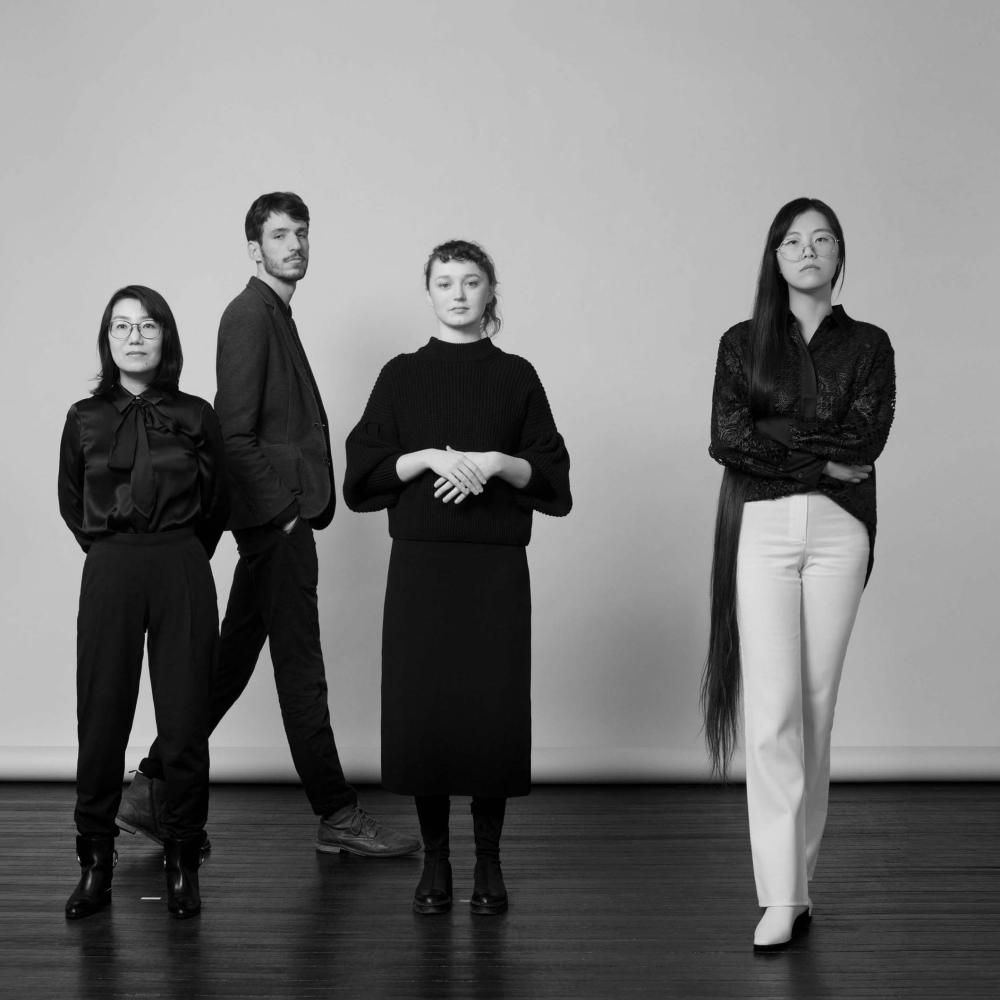
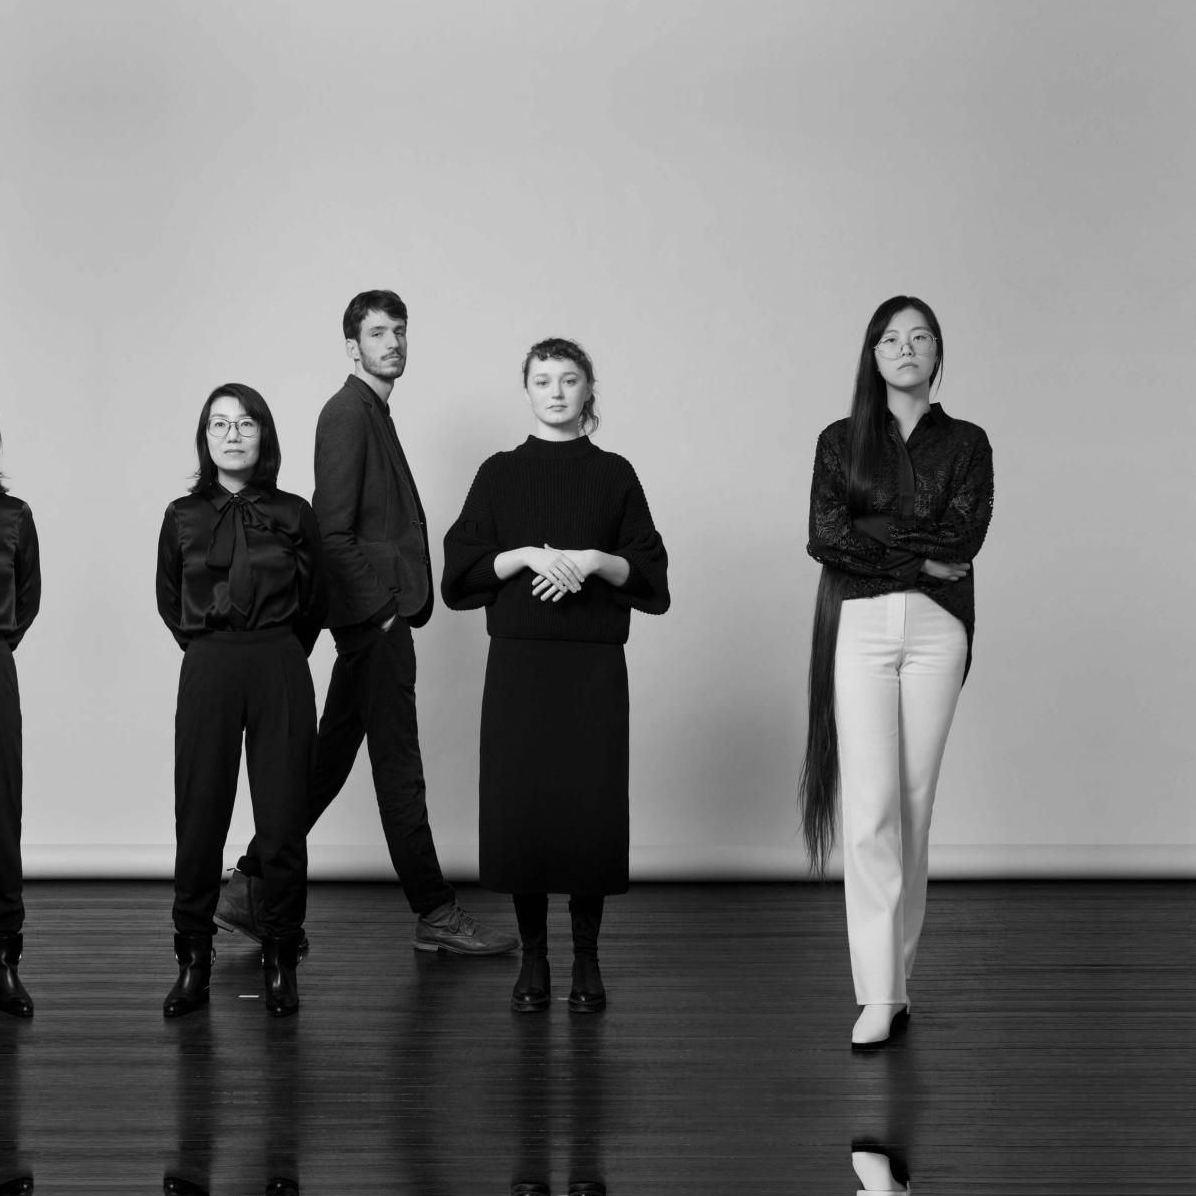
Fotky: padding proti průhledným okrajům při rozmazání, pozdější prolnutí

diff --git a/index.html b/index.html
@@ -57,9 +57,9 @@ body { overflow-x: hidden; }
 <h1 class="sr">Tvar architekti</h1>
 <script>
 (function () {
-  var TR = [[{"a":[468.22,260.45,1125.09,260.45,1125.09,322.35,1281.45,322.35,1281.45,358.29,1480.6,358.29,1480.6,775.62,1152.17,775.62,1152.17,819.55,439.39,819.55,439.39,819.55,439.39,819.55,439.39,402.22,468.22,402.22],"b":[396.72,161.73,1134.9,161.73,1134.9,295.76,1310.61,295.76,1310.61,452.92,1551.08,452.92,1551.08,921.91,812.9,921.91,812.9,764.75,572.43,764.75,572.43,747.73,260.21,747.73,260.21,278.74,396.72,278.74]}],[{"a":[396.72,161.73,1134.9,161.73,1134.9,295.76,1310.61,295.76,1310.61,452.92,1551.08,452.92,1551.08,921.91,812.9,921.91,812.9,764.75,572.43,764.75,572.43,747.73,260.21,747.73,260.21,278.74,396.72,278.74],"b":[918.39,209.15,1001.61,209.15,1001.61,207.36,1659.21,207.36,1659.21,625.16,1507.66,625.16,1507.66,966.88,850.05,966.88,850.05,626.95,432.69,626.95,432.69,530.92,260.79,530.92,260.79,113.12,918.39,113.12]}],[{"a":[1001.61,207.36,1659.21,207.36,1659.21,625.16,1507.66,625.16,1507.66,966.88,850.05,966.88,850.05,626.95,432.69,626.95,432.69,530.92,260.79,530.92,260.79,113.12,918.39,113.12,918.39,209.15,1001.61,209.15],"b":[710.96,177.72,1634.66,177.72,1634.66,718.55,1597.31,718.55,1597.31,902.28,746.05,902.28,746.05,822.06,543.43,822.06,543.43,775.48,285.33,775.48,285.33,234.65,710.96,234.65,710.96,234.65,710.96,234.65]}],[{"a":[710.96,177.72,1634.66,177.72,1634.66,718.55,1597.31,718.55,1597.31,902.28,746.05,902.28,746.05,822.06,543.43,822.06,543.43,775.48,285.33,775.48,285.33,234.65,710.96,234.65],"b":[227.61,104.42,689.54,104.42,689.54,384.93,689.54,384.93,689.54,384.93,621.08,384.93,621.08,519.47,227.61,519.47,227.61,479.57,110.41,479.57,110.41,244.79,227.61,244.79]},{"a":[285.33,234.65,710.96,234.65,710.96,177.72,1634.66,177.72,1634.66,718.55,1597.31,718.55,1597.31,902.28,746.05,902.28,746.05,822.06,543.43,822.06,543.43,775.48,285.33,775.48],"b":[1158.0,179.3,1158.0,179.3,1158.0,179.3,1458.04,179.3,1458.04,252.67,1803.86,252.67,1803.86,578.82,1341.85,578.82,1341.85,376.56,1158.0,376.56,1158.0,376.56,1158.0,376.56]},{"a":[710.96,177.72,1634.66,177.72,1634.66,718.55,1597.31,718.55,1597.31,902.28,746.05,902.28,746.05,822.06,543.43,822.06,543.43,775.48,285.33,775.48,285.33,234.65,710.96,234.65],"b":[757.12,651.38,1174.94,651.38,1174.94,758.91,1246.93,758.91,1246.93,976.81,609.65,976.81,609.65,758.91,609.65,758.91,609.65,758.91,609.65,758.91,609.65,758.91,757.12,758.91]}],[{"a":[227.61,104.42,689.54,104.42,689.54,384.93,689.54,384.93,689.54,384.93,689.54,384.93,689.54,384.93,621.08,384.93,621.08,519.47,621.08,519.47,621.08,519.47,227.61,519.47,227.61,479.57,110.41,479.57,110.41,244.79,227.61,244.79],"b":[582.9,180.34,1135.2,180.34,1135.2,291.84,1184.94,291.84,1184.94,241.67,1389.69,241.67,1389.69,660.48,1235.37,660.48,1235.37,874.44,726.39,874.44,726.39,762.94,582.9,762.94,582.9,707.81,418.38,707.81,418.38,378.26,582.9,378.26]},{"a":[1158.0,179.3,1158.0,179.3,1158.0,179.3,1458.04,179.3,1458.04,252.67,1803.86,252.67,1803.86,578.82,1341.85,578.82,1341.85,376.56,1158.0,376.56,1158.0,376.56,1158.0,376.56,1158.0,376.56,1158.0,376.56,1158.0,376.56,1158.0,376.56],"b":[582.9,180.34,1135.2,180.34,1135.2,291.84,1184.94,291.84,1184.94,241.67,1389.69,241.67,1389.69,660.48,1235.37,660.48,1235.37,874.44,726.39,874.44,726.39,762.94,582.9,762.94,582.9,707.81,418.38,707.81,418.38,378.26,582.9,378.26]},{"a":[757.12,651.38,1174.94,651.38,1174.94,651.38,1174.94,651.38,1174.94,651.38,1174.94,651.38,1174.94,758.91,1246.93,758.91,1246.93,976.81,609.65,976.81,609.65,758.91,609.65,758.91,609.65,758.91,609.65,758.91,609.65,758.91,757.12,758.91],"b":[582.9,180.34,1135.2,180.34,1135.2,291.84,1184.94,291.84,1184.94,241.67,1389.69,241.67,1389.69,660.48,1235.37,660.48,1235.37,874.44,726.39,874.44,726.39,762.94,582.9,762.94,582.9,707.81,418.38,707.81,418.38,378.26,582.9,378.26]}],[{"a":[582.9,180.34,1135.2,180.34,1135.2,291.84,1184.94,291.84,1184.94,241.67,1389.69,241.67,1389.69,660.48,1235.37,660.48,1235.37,874.44,726.39,874.44,726.39,762.94,582.9,762.94,582.9,707.81,418.38,707.81,418.38,378.26,582.9,378.26],"b":[665.64,180.34,812.94,180.34,812.94,111.84,1365.24,111.84,1365.24,180.34,1494.51,180.34,1494.51,817.96,1380.39,817.96,1380.39,962.87,710.56,962.87,710.56,817.96,665.64,817.96,665.64,632.07,260.23,632.07,260.23,302.52,665.64,302.52]}],[{"a":[812.94,111.84,1365.24,111.84,1365.24,180.34,1365.24,180.34,1365.24,180.34,1494.51,180.34,1494.51,817.96,1380.39,817.96,1380.39,817.96,1380.39,817.96,1380.39,817.96,1380.39,817.96,1380.39,962.87,710.56,962.87,710.56,817.96,665.64,817.96,665.64,632.07,260.23,632.07,260.23,302.52,665.64,302.52,665.64,180.34,812.94,180.34,812.94,180.34,812.94,180.34],"b":[994.15,352.97,1182.51,352.97,1182.51,292.38,1269.54,292.38,1269.54,189.94,1486.55,189.94,1486.55,610.73,1399.52,610.73,1399.52,713.18,1211.15,713.18,1211.15,773.77,1086.68,773.77,1086.68,807.91,784.85,807.91,784.85,773.77,584.37,773.77,584.37,733.01,433.46,733.01,433.46,312.21,735.28,312.21,735.28,352.97,886.2,352.97,886.2,387.12,994.15,387.12]}],[{"a":[433.46,312.21,735.28,312.21,735.28,352.97,886.2,352.97,886.2,387.12,994.15,387.12,994.15,352.97,1182.51,352.97,1182.51,292.38,1269.54,292.38,1269.54,189.94,1486.55,189.94,1486.55,610.73,1399.52,610.73,1399.52,713.18,1211.15,713.18,1211.15,773.77,1086.68,773.77,1086.68,807.91,784.85,807.91,784.85,773.77,584.37,773.77,584.37,733.01,433.46,733.01],"b":[779.64,440.73,779.64,440.73,779.64,440.73,779.64,440.73,779.64,440.73,1140.36,440.73,1140.36,440.73,1140.36,440.73,1140.36,440.73,1140.36,440.73,1140.36,440.73,1140.36,440.73,1140.36,588.63,1140.36,588.63,1140.36,588.63,1140.36,588.63,1140.36,588.63,1027.63,588.63,1027.63,639.27,903.64,639.27,903.64,552.46,779.64,552.46,779.64,552.46,779.64,552.46]}]], PH = {"p2": {"f": "assets/photos/p2.jpg", "w": 1920, "h": 1300, "m": [0.67231, 1e-06, -1e-06, 0.67231, 260.181768, 104.762306]}, "p3": {"f": "assets/photos/p3.jpg", "w": 2400, "h": 1918, "m": [0.582686, -8e-06, 1.6e-05, 0.493671, 260.721509, 72.482406]}, "p4": {"f": "assets/photos/p4.jpg", "w": 2083, "h": 1400, "m": [0.647777, 1.3e-05, -1.3e-05, 0.647777, 285.318545, 86.523764]}, "p5a": {"f": "assets/photos/p5a.jpg", "w": 1300, "h": 731, "m": [0.567548, 2.7e-05, -2.7e-05, 0.567548, 30.933228, 104.28258]}, "p5b": {"f": "assets/photos/p5b.jpg", "w": 1300, "h": 731, "m": [0.546335, 3.3e-05, -3.3e-05, 0.546335, 1125.686938, 179.13399]}, "p5c": {"f": "assets/photos/p5c.jpg", "w": 1200, "h": 675, "m": [0.531075, 2.7e-05, -2.7e-05, 0.531075, 609.496736, 634.701348]}, "p7": {"f": "assets/photos/p7.jpg", "w": 1000, "h": 1000, "m": [1.234278, -4.4e-05, 4.4e-05, 1.234278, 260.265623, 69.805939]}};
+  var TR = [[{"a":[468.22,260.45,1125.09,260.45,1125.09,322.35,1281.45,322.35,1281.45,358.29,1480.6,358.29,1480.6,775.62,1152.17,775.62,1152.17,819.55,439.39,819.55,439.39,819.55,439.39,819.55,439.39,402.22,468.22,402.22],"b":[396.72,161.73,1134.9,161.73,1134.9,295.76,1310.61,295.76,1310.61,452.92,1551.08,452.92,1551.08,921.91,812.9,921.91,812.9,764.75,572.43,764.75,572.43,747.73,260.21,747.73,260.21,278.74,396.72,278.74]}],[{"a":[396.72,161.73,1134.9,161.73,1134.9,295.76,1310.61,295.76,1310.61,452.92,1551.08,452.92,1551.08,921.91,812.9,921.91,812.9,764.75,572.43,764.75,572.43,747.73,260.21,747.73,260.21,278.74,396.72,278.74],"b":[918.39,209.15,1001.61,209.15,1001.61,207.36,1659.21,207.36,1659.21,625.16,1507.66,625.16,1507.66,966.88,850.05,966.88,850.05,626.95,432.69,626.95,432.69,530.92,260.79,530.92,260.79,113.12,918.39,113.12]}],[{"a":[1001.61,207.36,1659.21,207.36,1659.21,625.16,1507.66,625.16,1507.66,966.88,850.05,966.88,850.05,626.95,432.69,626.95,432.69,530.92,260.79,530.92,260.79,113.12,918.39,113.12,918.39,209.15,1001.61,209.15],"b":[710.96,177.72,1634.66,177.72,1634.66,718.55,1597.31,718.55,1597.31,902.28,746.05,902.28,746.05,822.06,543.43,822.06,543.43,775.48,285.33,775.48,285.33,234.65,710.96,234.65,710.96,234.65,710.96,234.65]}],[{"a":[710.96,177.72,1634.66,177.72,1634.66,718.55,1597.31,718.55,1597.31,902.28,746.05,902.28,746.05,822.06,543.43,822.06,543.43,775.48,285.33,775.48,285.33,234.65,710.96,234.65],"b":[227.61,104.42,689.54,104.42,689.54,384.93,689.54,384.93,689.54,384.93,621.08,384.93,621.08,519.47,227.61,519.47,227.61,479.57,110.41,479.57,110.41,244.79,227.61,244.79]},{"a":[285.33,234.65,710.96,234.65,710.96,177.72,1634.66,177.72,1634.66,718.55,1597.31,718.55,1597.31,902.28,746.05,902.28,746.05,822.06,543.43,822.06,543.43,775.48,285.33,775.48],"b":[1158.0,179.3,1158.0,179.3,1158.0,179.3,1458.04,179.3,1458.04,252.67,1803.86,252.67,1803.86,578.82,1341.85,578.82,1341.85,376.56,1158.0,376.56,1158.0,376.56,1158.0,376.56]},{"a":[710.96,177.72,1634.66,177.72,1634.66,718.55,1597.31,718.55,1597.31,902.28,746.05,902.28,746.05,822.06,543.43,822.06,543.43,775.48,285.33,775.48,285.33,234.65,710.96,234.65],"b":[757.12,651.38,1174.94,651.38,1174.94,758.91,1246.93,758.91,1246.93,976.81,609.65,976.81,609.65,758.91,609.65,758.91,609.65,758.91,609.65,758.91,609.65,758.91,757.12,758.91]}],[{"a":[227.61,104.42,689.54,104.42,689.54,384.93,689.54,384.93,689.54,384.93,689.54,384.93,689.54,384.93,621.08,384.93,621.08,519.47,621.08,519.47,621.08,519.47,227.61,519.47,227.61,479.57,110.41,479.57,110.41,244.79,227.61,244.79],"b":[582.9,180.34,1135.2,180.34,1135.2,291.84,1184.94,291.84,1184.94,241.67,1389.69,241.67,1389.69,660.48,1235.37,660.48,1235.37,874.44,726.39,874.44,726.39,762.94,582.9,762.94,582.9,707.81,418.38,707.81,418.38,378.26,582.9,378.26]},{"a":[1158.0,179.3,1158.0,179.3,1158.0,179.3,1458.04,179.3,1458.04,252.67,1803.86,252.67,1803.86,578.82,1341.85,578.82,1341.85,376.56,1158.0,376.56,1158.0,376.56,1158.0,376.56,1158.0,376.56,1158.0,376.56,1158.0,376.56,1158.0,376.56],"b":[582.9,180.34,1135.2,180.34,1135.2,291.84,1184.94,291.84,1184.94,241.67,1389.69,241.67,1389.69,660.48,1235.37,660.48,1235.37,874.44,726.39,874.44,726.39,762.94,582.9,762.94,582.9,707.81,418.38,707.81,418.38,378.26,582.9,378.26]},{"a":[757.12,651.38,1174.94,651.38,1174.94,651.38,1174.94,651.38,1174.94,651.38,1174.94,651.38,1174.94,758.91,1246.93,758.91,1246.93,976.81,609.65,976.81,609.65,758.91,609.65,758.91,609.65,758.91,609.65,758.91,609.65,758.91,757.12,758.91],"b":[582.9,180.34,1135.2,180.34,1135.2,291.84,1184.94,291.84,1184.94,241.67,1389.69,241.67,1389.69,660.48,1235.37,660.48,1235.37,874.44,726.39,874.44,726.39,762.94,582.9,762.94,582.9,707.81,418.38,707.81,418.38,378.26,582.9,378.26]}],[{"a":[582.9,180.34,1135.2,180.34,1135.2,291.84,1184.94,291.84,1184.94,241.67,1389.69,241.67,1389.69,660.48,1235.37,660.48,1235.37,874.44,726.39,874.44,726.39,762.94,582.9,762.94,582.9,707.81,418.38,707.81,418.38,378.26,582.9,378.26],"b":[665.64,180.34,812.94,180.34,812.94,111.84,1365.24,111.84,1365.24,180.34,1494.51,180.34,1494.51,817.96,1380.39,817.96,1380.39,962.87,710.56,962.87,710.56,817.96,665.64,817.96,665.64,632.07,260.23,632.07,260.23,302.52,665.64,302.52]}],[{"a":[812.94,111.84,1365.24,111.84,1365.24,180.34,1365.24,180.34,1365.24,180.34,1494.51,180.34,1494.51,817.96,1380.39,817.96,1380.39,817.96,1380.39,817.96,1380.39,817.96,1380.39,817.96,1380.39,962.87,710.56,962.87,710.56,817.96,665.64,817.96,665.64,632.07,260.23,632.07,260.23,302.52,665.64,302.52,665.64,180.34,812.94,180.34,812.94,180.34,812.94,180.34],"b":[994.15,352.97,1182.51,352.97,1182.51,292.38,1269.54,292.38,1269.54,189.94,1486.55,189.94,1486.55,610.73,1399.52,610.73,1399.52,713.18,1211.15,713.18,1211.15,773.77,1086.68,773.77,1086.68,807.91,784.85,807.91,784.85,773.77,584.37,773.77,584.37,733.01,433.46,733.01,433.46,312.21,735.28,312.21,735.28,352.97,886.2,352.97,886.2,387.12,994.15,387.12]}],[{"a":[433.46,312.21,735.28,312.21,735.28,352.97,886.2,352.97,886.2,387.12,994.15,387.12,994.15,352.97,1182.51,352.97,1182.51,292.38,1269.54,292.38,1269.54,189.94,1486.55,189.94,1486.55,610.73,1399.52,610.73,1399.52,713.18,1211.15,713.18,1211.15,773.77,1086.68,773.77,1086.68,807.91,784.85,807.91,784.85,773.77,584.37,773.77,584.37,733.01,433.46,733.01],"b":[779.64,440.73,779.64,440.73,779.64,440.73,779.64,440.73,779.64,440.73,1140.36,440.73,1140.36,440.73,1140.36,440.73,1140.36,440.73,1140.36,440.73,1140.36,440.73,1140.36,440.73,1140.36,588.63,1140.36,588.63,1140.36,588.63,1140.36,588.63,1140.36,588.63,1027.63,588.63,1027.63,639.27,903.64,639.27,903.64,552.46,779.64,552.46,779.64,552.46,779.64,552.46]}]], PH = {"p2": {"f": "assets/photos/p2.jpg", "w": 2278, "h": 1658, "m": [0.67231, 1e-06, -1e-06, 0.67231, 139.838567, -15.581387]}, "p3": {"f": "assets/photos/p3.jpg", "w": 2812, "h": 2330, "m": [0.582686, -8e-06, 1.6e-05, 0.493671, 140.684928, -29.212204]}, "p4": {"f": "assets/photos/p4.jpg", "w": 2455, "h": 1772, "m": [0.647777, 1.3e-05, -1.3e-05, 0.647777, 164.834407, -33.965158]}, "p5a": {"f": "assets/photos/p5a.jpg", "w": 1724, "h": 1155, "m": [0.567548, 2.7e-05, -2.7e-05, 0.567548, -89.381201, -16.043225]}, "p5b": {"f": "assets/photos/p5b.jpg", "w": 1740, "h": 1171, "m": [0.546335, 3.3e-05, -3.3e-05, 0.546335, 1005.500378, 58.933097]}, "p5c": {"f": "assets/photos/p5c.jpg", "w": 1652, "h": 1127, "m": [0.531075, 2.7e-05, -2.7e-05, 0.531075, 489.479765, 514.672336]}, "p7": {"f": "assets/photos/p7.jpg", "w": 1196, "h": 1196, "m": [1.234278, -4.4e-05, 4.4e-05, 1.234278, 139.302065, -51.149066]}};
   var reduce = window.matchMedia('(prefers-reduced-motion: reduce)').matches;
-  var N = 9, TAIL = 0.65, SP = 1.5, BLUR = 34, HOLD = 0.06, SOFT = 0.65, NS = 'http://www.w3.org/2000/svg';
+  var N = 9, TAIL = 0.65, SP = 1.5, BLUR = 26, LATE = 0.4, HOLD = 0.06, SOFT = 0.65, NS = 'http://www.w3.org/2000/svg';
   var strip = document.getElementById('strip'), root = document.getElementById('root'), spacer = document.getElementById('spacer');
   // texty jsou ve vlastní vrstvě nad obrysem; pozadí (barvy kroků) zůstává pod ním
   var txt = strip.cloneNode(true); txt.id = 'txt';
@@ -129,8 +129,8 @@ body { overflow-x: hidden; }
       if (j === 0) fillPoly.setAttribute('points', p);
       S.list.forEach(function (it) {
         var o;
-        if (T < it.idx) o = clamp(T - (it.idx - 1));
-        else o = it.nextAdj ? (T < it.idx + 1 ? 1 : 0) : clamp(1 - (T - it.idx));
+        if (T < it.idx) o = ss(clamp((T - (it.idx - 1) - LATE) / (1 - LATE)));
+        else o = it.nextAdj ? (T < it.idx + 1 ? 1 : 0) : ss(clamp(1 - (T - it.idx) / (1 - LATE)));
         if (it.im._o !== o) { it.im._o = o; it.im.setAttribute('opacity', o.toFixed(3)); it.im.style.display = o > 0 ? '' : 'none';
           var bl = o > 0.995 ? 0 : BLUR * Math.pow(1 - o, 1.4);
           if (bl < 0.3) { if (it.blur) { it.im.removeAttribute('filter'); it.blur = 0; } }

diff --git a/tools/tpl.html b/tools/tpl.html
@@ -59,7 +59,7 @@ body { overflow-x: hidden; }
 (function () {
   var TR = __TRANS__, PH = __PHOTOS__;
   var reduce = window.matchMedia('(prefers-reduced-motion: reduce)').matches;
-  var N = 9, TAIL = 0.65, SP = 1.5, BLUR = 34, HOLD = 0.06, SOFT = 0.65, NS = 'http://www.w3.org/2000/svg';
+  var N = 9, TAIL = 0.65, SP = 1.5, BLUR = 26, LATE = 0.4, HOLD = 0.06, SOFT = 0.65, NS = 'http://www.w3.org/2000/svg';
   var strip = document.getElementById('strip'), root = document.getElementById('root'), spacer = document.getElementById('spacer');
   // texty jsou ve vlastní vrstvě nad obrysem; pozadí (barvy kroků) zůstává pod ním
   var txt = strip.cloneNode(true); txt.id = 'txt';
@@ -129,8 +129,8 @@ body { overflow-x: hidden; }
       if (j === 0) fillPoly.setAttribute('points', p);
       S.list.forEach(function (it) {
         var o;
-        if (T < it.idx) o = clamp(T - (it.idx - 1));
-        else o = it.nextAdj ? (T < it.idx + 1 ? 1 : 0) : clamp(1 - (T - it.idx));
+        if (T < it.idx) o = ss(clamp((T - (it.idx - 1) - LATE) / (1 - LATE)));
+        else o = it.nextAdj ? (T < it.idx + 1 ? 1 : 0) : ss(clamp(1 - (T - it.idx) / (1 - LATE)));
         if (it.im._o !== o) { it.im._o = o; it.im.setAttribute('opacity', o.toFixed(3)); it.im.style.display = o > 0 ? '' : 'none';
           var bl = o > 0.995 ? 0 : BLUR * Math.pow(1 - o, 1.4);
           if (bl < 0.3) { if (it.blur) { it.im.removeAttribute('filter'); it.blur = 0; } }
